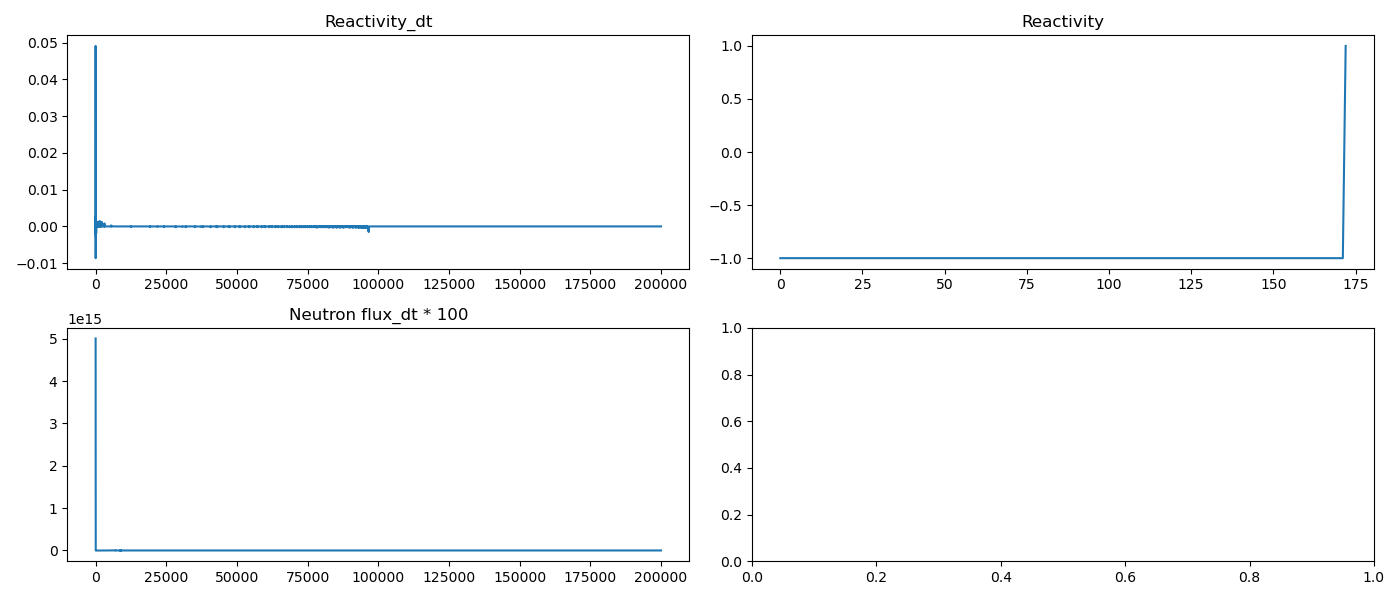
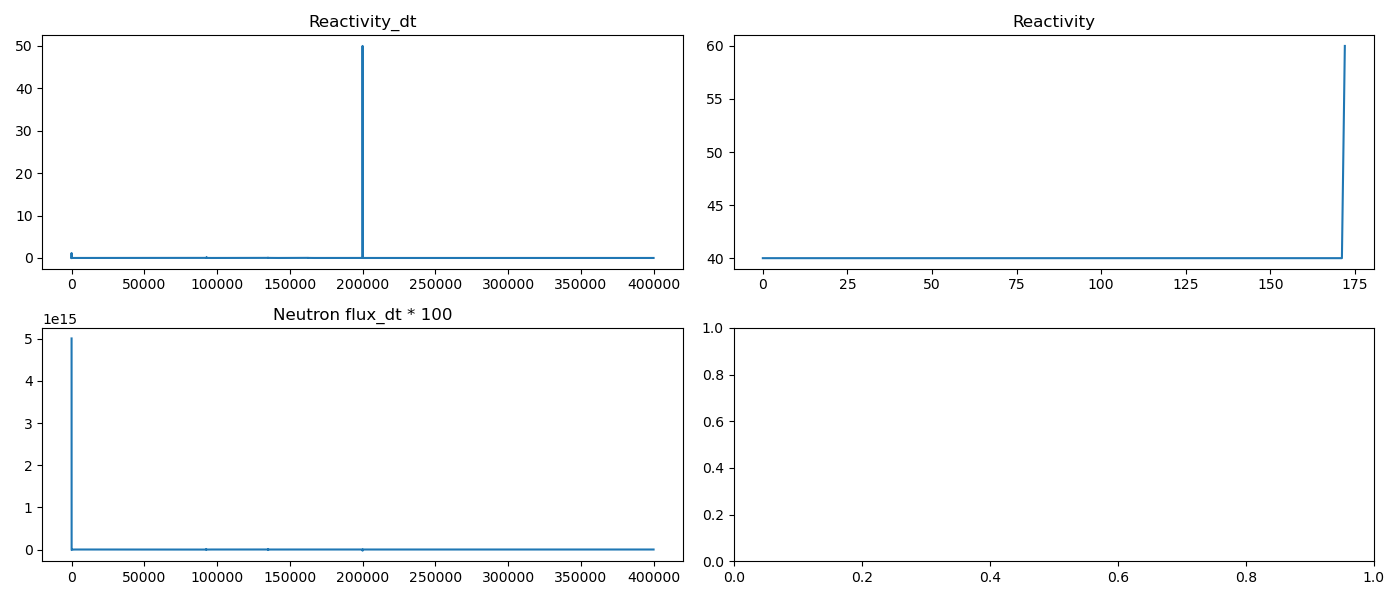
modify insertion

diff --git a/parameters.py b/parameters.py
@@ -2,7 +2,7 @@ import numpy as np
 
 def generate_parameters(
     # Neutronics
-    dt=0.01, # fixed time step, 0.5
+    dt=0.001, # fixed time step, 0.5
     L = 172,  # Length of the spatial domain, cm
     # L = 22.9
     N = 200,  # Number of spatial points
@@ -122,7 +122,7 @@ def generate_parameters(
 
     # Reactivity
     # rho_init = 0 * np.ones(N)
-    max_rho_change = 1e-5,  # Maximum reactivity change, $/beta
+    max_rho_change = 1e-4,  # Maximum reactivity change, $/beta
     alpha_f    = -5.904E-5,  # -5.904E-5, U233 (drho/K) fuel salt temperature-reactivity feedback coefficient ORNL-TM-1647 p.3 % -5.904E-05; % ORNL-TM-0728 p. 101 %
     alpha_g    = -6.624E-5,  # -6.624E-5, U233  (drho/K) graphite temperature-reactivity feedback coefficient ORNL-TM-1647 p.3 % -6.624E-05; % ORNL-TM-0728 p.101
     tau_l  = 16.73,  # ORNL-TM-0728 %16.44; % (s)

diff --git a/reactivity.py b/reactivity.py
@@ -56,8 +56,13 @@ def reactivity(temperature_fuel_r, temperature_graphite_r, temperature_fuel, tem
         react = reactdata[0]
     else:
         react = reactdata[1]
+        # smoothing_factor = 100
+        # react_insertion = reactdata[1] * (1 - np.exp(-step / smoothing_factor))
+        # react = react_insertion
+
         
     # rho_feedback=(temperature_fuel_r-temperature_fuel)*alpha_f+(temperature_graphite_r-temperature_graphite)*alpha_g
+
     rho_feedback = np.clip((temperature_fuel_r - temperature_fuel) * alpha_f +
                        (temperature_graphite_r - temperature_graphite) * alpha_g,
                        -max_rho_change, max_rho_change)

diff --git a/main.py b/main.py
@@ -20,7 +20,7 @@ def run_simulation(params, index):
     initialG = params['initialG']
 
     # Extract parameters
-    rho_insertion = 50 * np.ones(N)     # pcm
+    rho_insertion = 5 * np.ones(N)     # pcm
     rho = params['rho_init'] * np.ones(N)
     # rho = 0 * np.ones(N)
     y_n = np.zeros((7 * N, 1))
